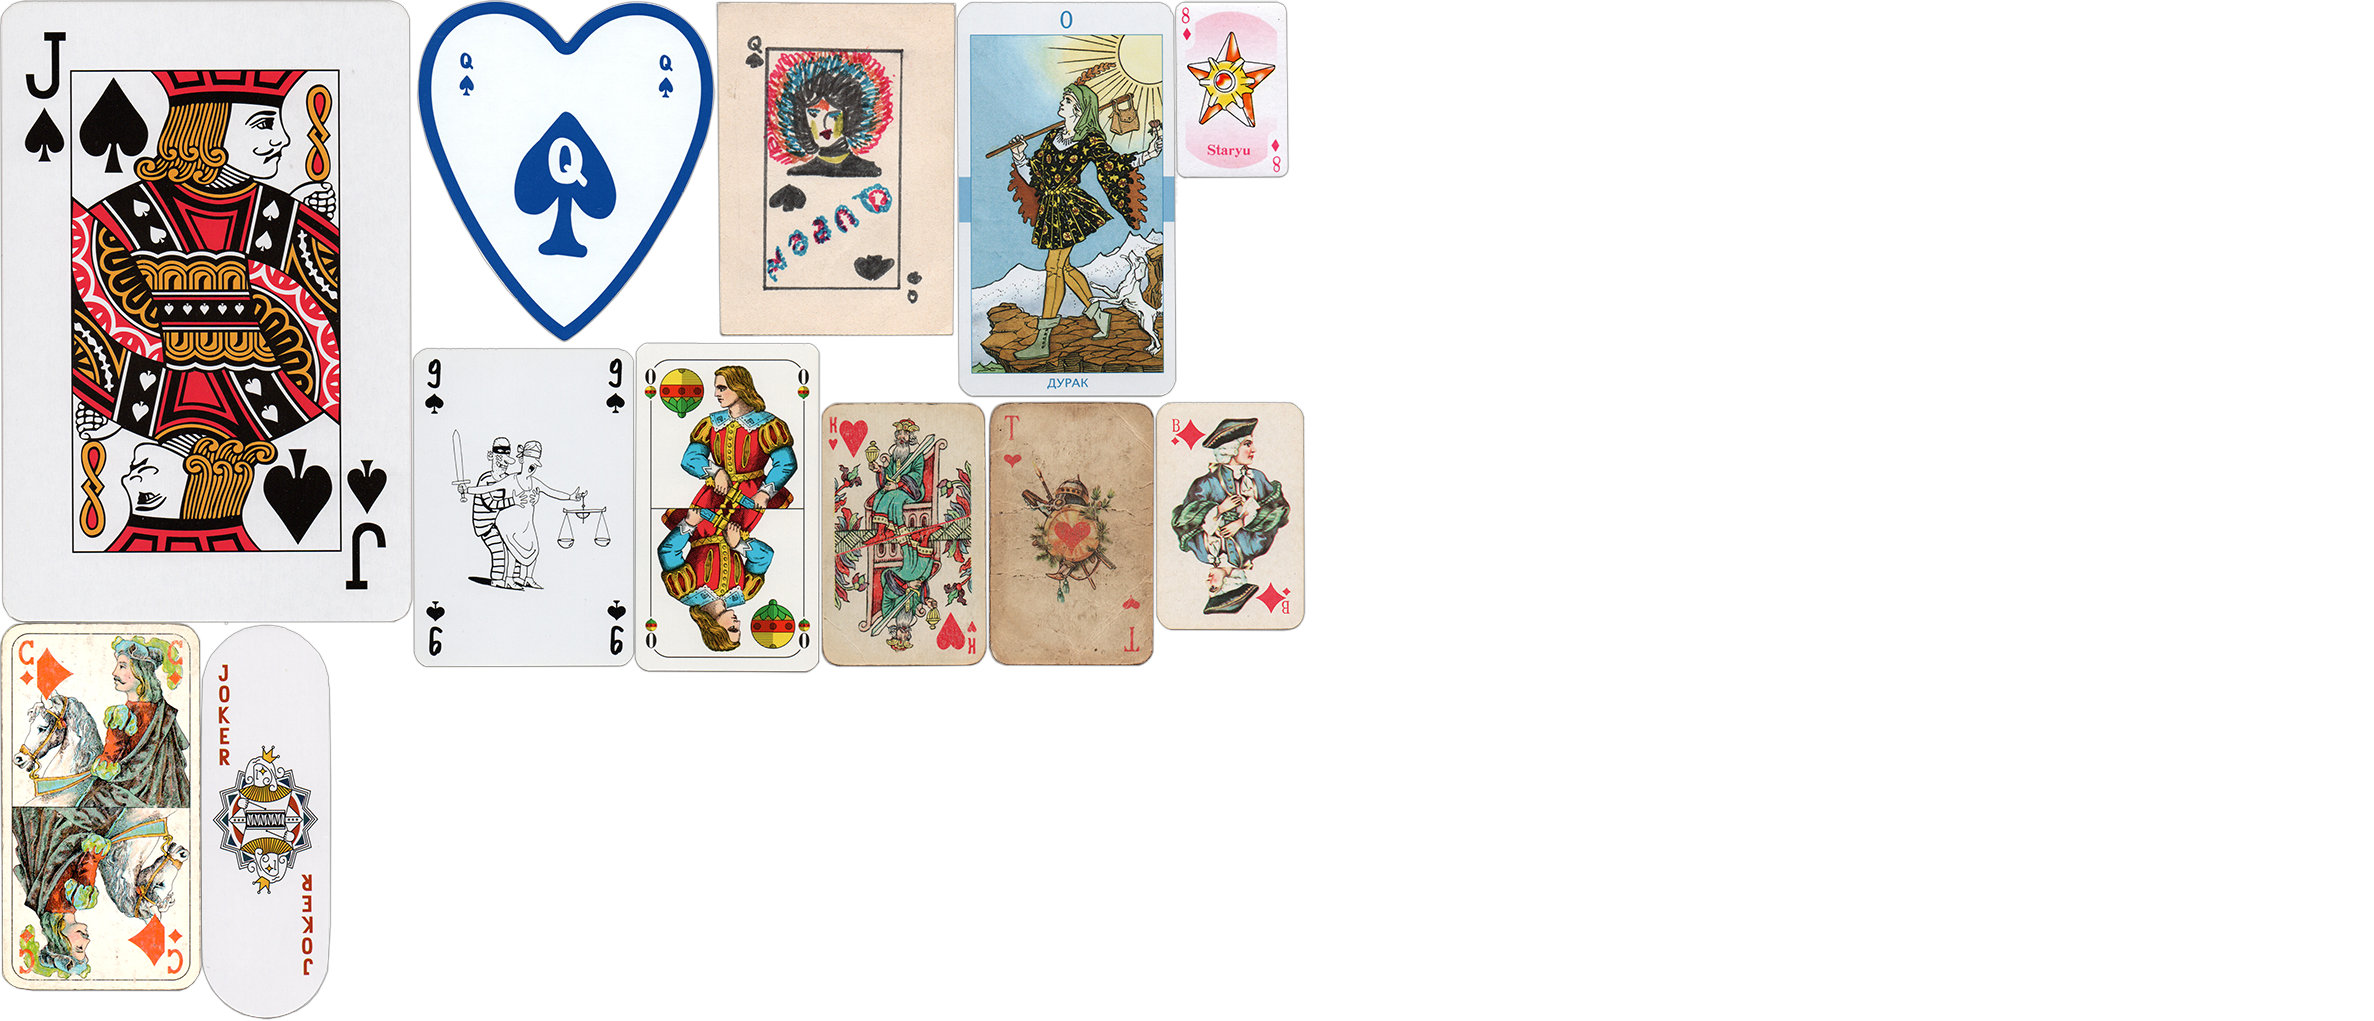
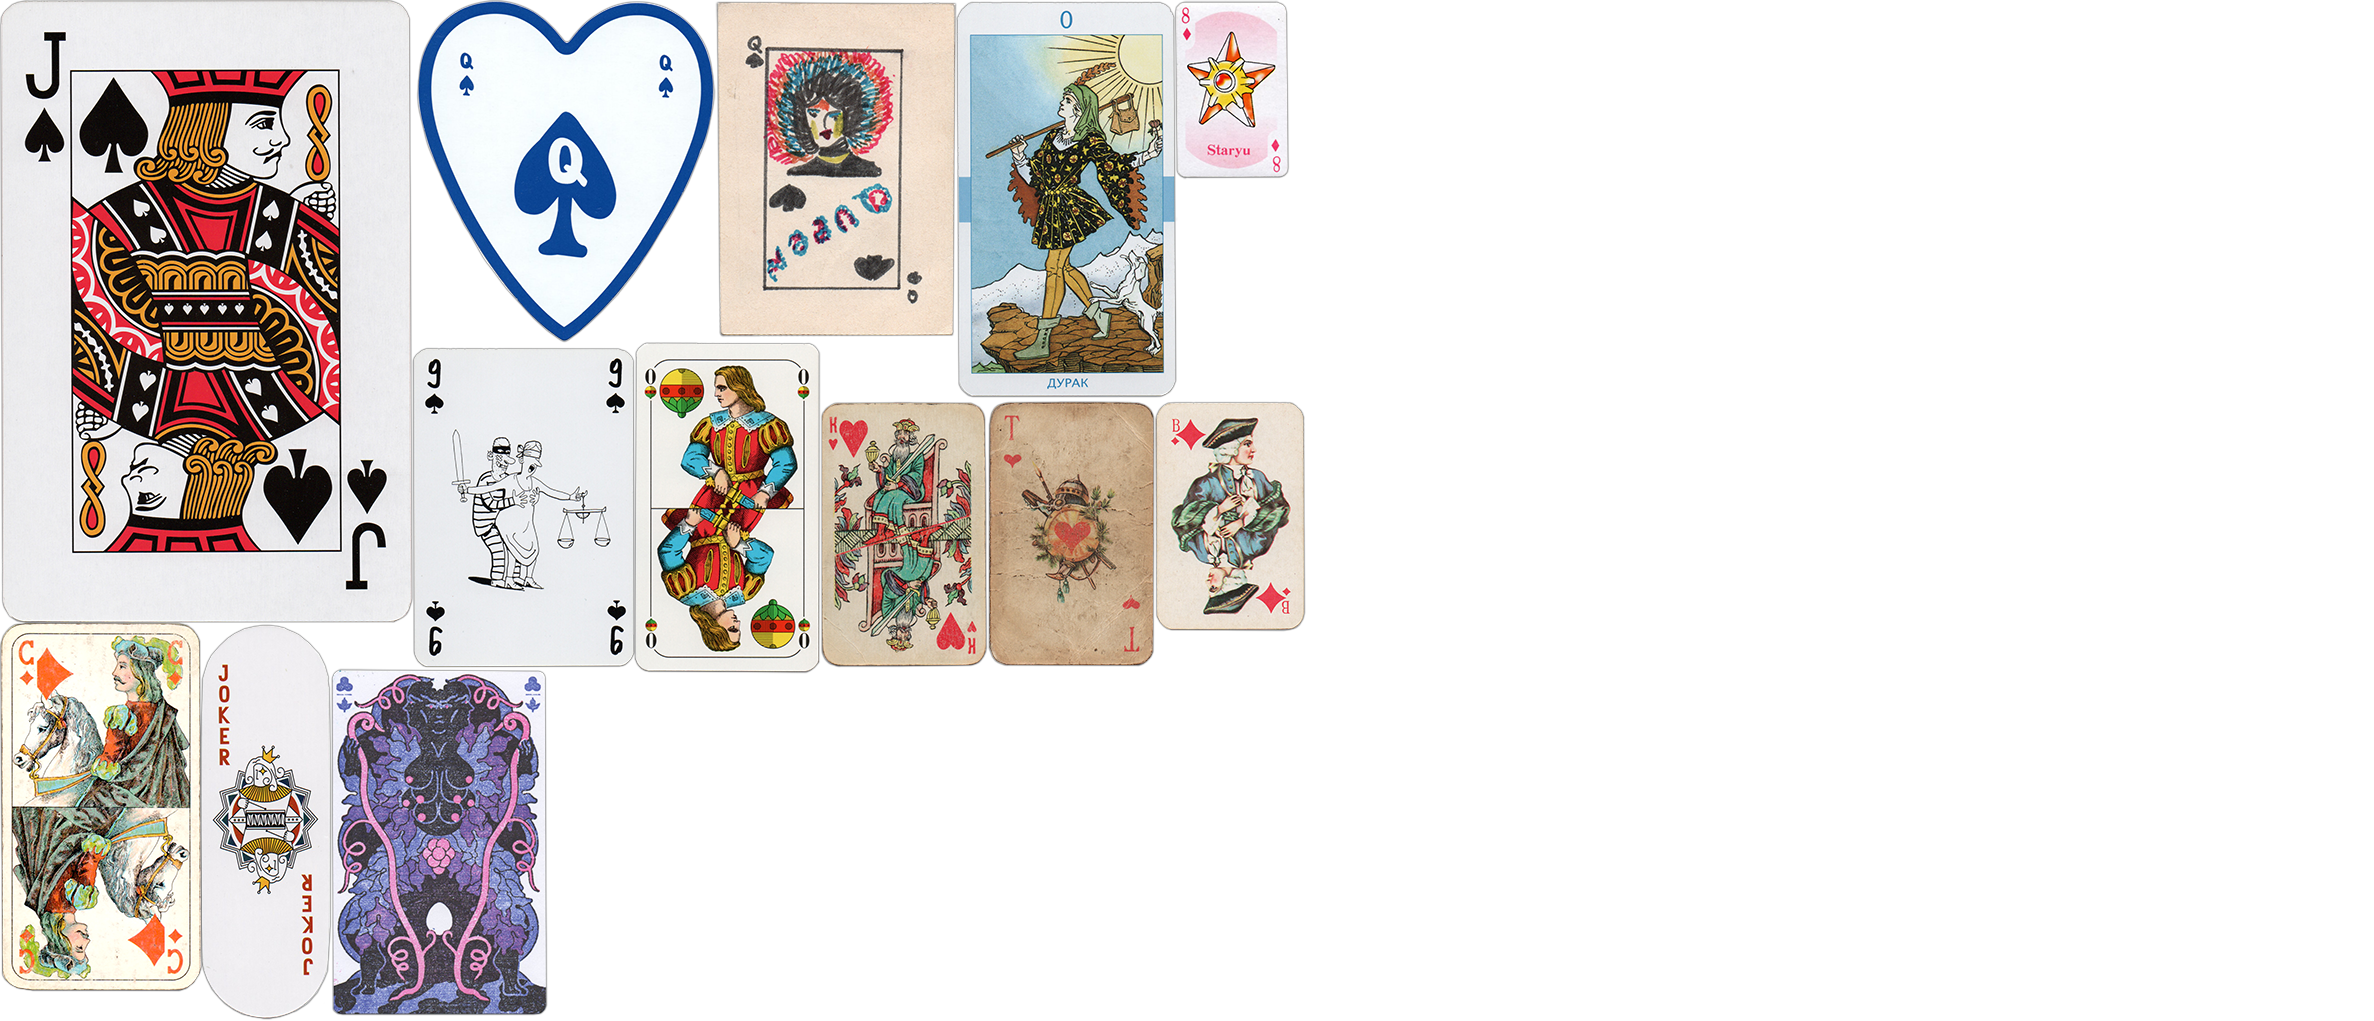
feat(Playing cards): add new cards

Changed region(s): [[0.1247, 0.6376, 0.2494, 1.0]]

diff --git a/src/app/components/item-pages/PlayingCardsPage/index.tsx b/src/app/components/item-pages/PlayingCardsPage/index.tsx
@@ -974,6 +974,15 @@ const PlayingCardsPage: React.FunctionComponent<ItemPageProps> = ({className, it
               height={1204}
               imgs={playingCardsXImgs}
             />
+            <PlayingCard
+              href="https://www.kisskissbankbank.com/en/projects/la-sainte-sature"
+              title="Le jeu de la Sainte Sature"
+              x={1196}
+              y={2412}
+              width={773}
+              height={1243}
+              imgs={playingCardsXImgs}
+            />
             <PlayingCard title="Tarot De Luxe" x={0} y={2249} width={725} height={1319} imgs={playingCardsXImgs} />
             <PlayingCard
               title="Китайские из Temu"

diff --git a/src/app/data/translations/ru.ts b/src/app/data/translations/ru.ts
@@ -603,7 +603,7 @@ export const ru: TranslatedStrings = {
       p2: 'Не ставлю себе задачу собрать очень много и всё подряд, поэтому коллекция не очень \
 большая и насчитывает на данный момент около 140 колод. Собираю именно те, \
 которые понравились.',
-      imgTitle: 'По одной карте из каждой колоды (кликабельно). Сентябрь 2026',
+      imgTitle: 'По одной карте из каждой колоды (кликабельно). Октябрь 2026',
     },
   },
   Poland: {

diff --git a/src/app/data/translations/en.ts b/src/app/data/translations/en.ts
@@ -530,7 +530,7 @@ export const en: TranslatedStrings = {
       p2: 'There is no purpose to gather everything from everywhere, \
 so the collection is not so big and contains around 140 decks today. \
 Collecting those which I really like.',
-      imgTitle: 'One card from each deck (clickable). September 2026',
+      imgTitle: 'One card from each deck (clickable). October 2026',
     },
   },
   Poland: {
